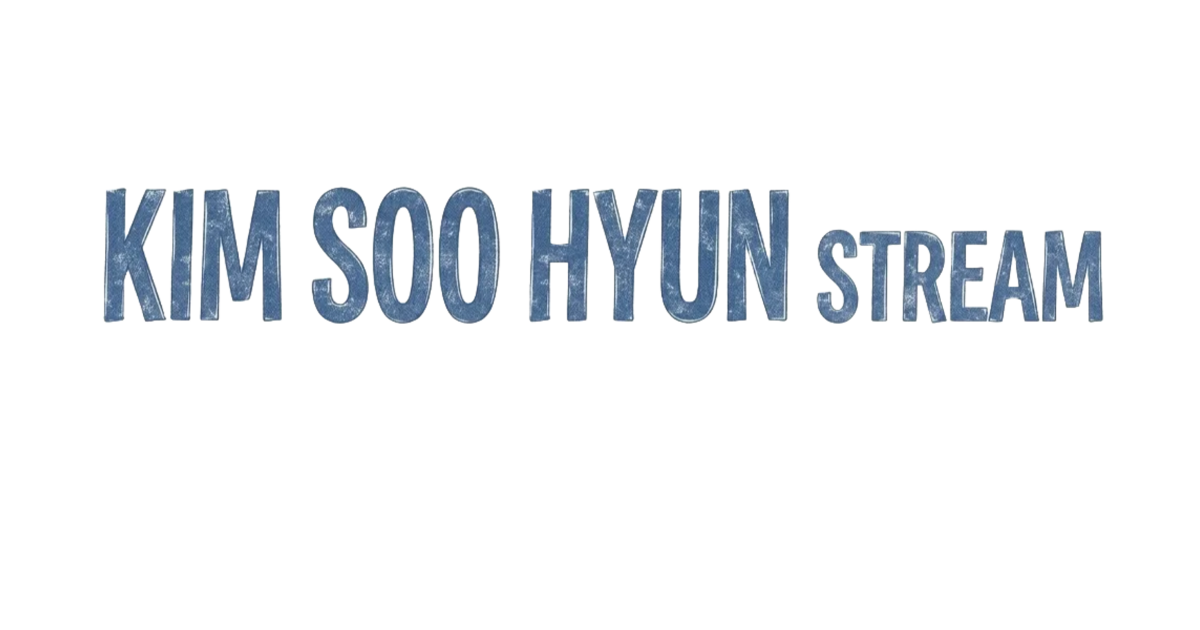
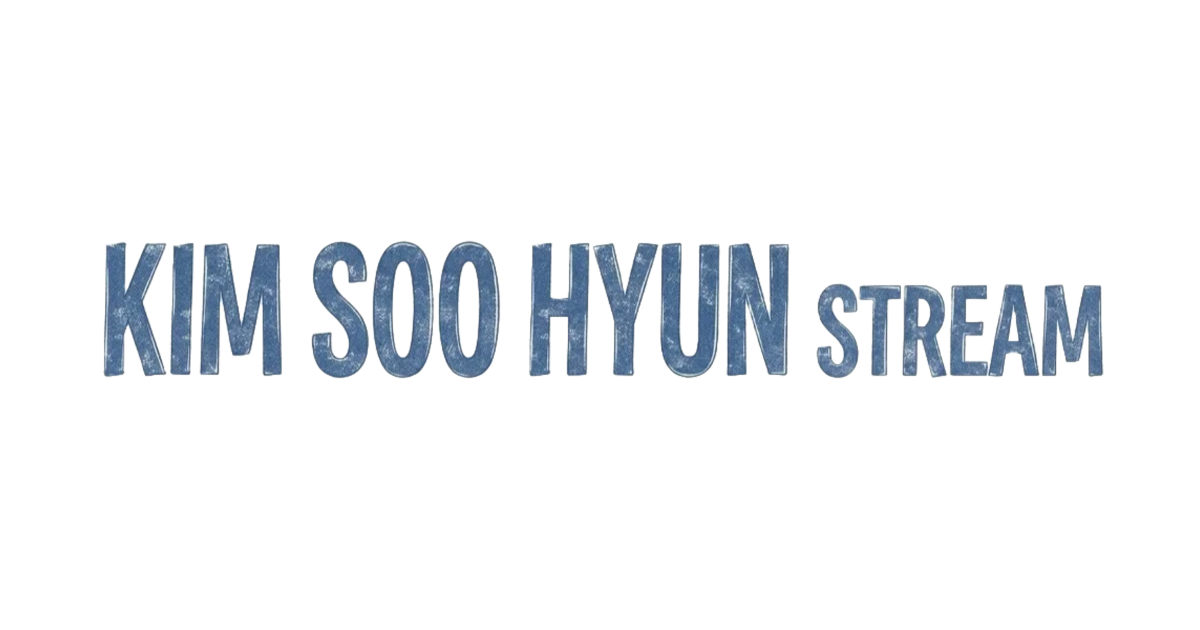
.

Changed region(s): [[0.0617, 0.3016, 0.925, 0.6032]]

diff --git a/youtube.html b/youtube.html
@@ -10,6 +10,23 @@
     <link rel="stylesheet" href="css/style.css">
     <link rel="stylesheet" href="css/easter-egg.css">
 
+
+    <!-- Open Graph -->
+    <meta property="og:title" content="KIM SOO HYUN STREAM">
+    <meta property="og:description" content="배우 김수현 콘텐츠 큐레이션 팬 페이지">
+    <meta property="og:type" content="website">
+    <meta property="og:url" content="https://kingsoohyun.github.io/stream/youtube.html">
+    <meta property="og:image" content="https://kingsoohyun.github.io/stream/assets/stream.png">
+    <meta property="og:image:width" content="1200">
+    <meta property="og:image:height" content="630">
+
+    <!-- X / Twitter Card -->
+    <meta name="twitter:card" content="summary_large_image">
+    <meta name="twitter:title" content="KIM SOO HYUN STREAM">
+    <meta name="twitter:description" content="배우 김수현 콘텐츠 큐레이션 팬 페이지">
+    <meta name="twitter:image" content="https://kingsoohyun.github.io/stream/assets/stream.png">
+
+
     <style>
 
         /* =========================================================

diff --git a/social.html b/social.html
@@ -11,6 +11,23 @@
     <link rel="stylesheet" href="css/style.css">
     <link rel="stylesheet" href="css/easter-egg.css">
 
+
+    <!-- Open Graph -->
+    <meta property="og:title" content="KIM SOO HYUN STREAM">
+    <meta property="og:description" content="배우 김수현 콘텐츠 큐레이션 팬 페이지">
+    <meta property="og:type" content="website">
+    <meta property="og:url" content="https://kingsoohyun.github.io/stream/social.html">
+    <meta property="og:image" content="https://kingsoohyun.github.io/stream/assets/stream.png">
+    <meta property="og:image:width" content="1200">
+    <meta property="og:image:height" content="630">
+
+    <!-- X / Twitter Card -->
+    <meta name="twitter:card" content="summary_large_image">
+    <meta name="twitter:title" content="KIM SOO HYUN STREAM">
+    <meta name="twitter:description" content="배우 김수현 콘텐츠 큐레이션 팬 페이지">
+    <meta name="twitter:image" content="https://kingsoohyun.github.io/stream/assets/stream.png">
+
+
     <style>
 
         /* =========================================================

diff --git a/tweets.html b/tweets.html
@@ -10,6 +10,23 @@
     <link rel="stylesheet" href="css/style.css">
     <link rel="stylesheet" href="css/easter-egg.css">
 
+
+    <!-- Open Graph -->
+    <meta property="og:title" content="KIM SOO HYUN STREAM">
+    <meta property="og:description" content="배우 김수현 콘텐츠 큐레이션 팬 페이지">
+    <meta property="og:type" content="website">
+    <meta property="og:url" content="https://kingsoohyun.github.io/stream/tweets.html">
+    <meta property="og:image" content="https://kingsoohyun.github.io/stream/assets/stream.png">
+    <meta property="og:image:width" content="1200">
+    <meta property="og:image:height" content="630">
+
+    <!-- X / Twitter Card -->
+    <meta name="twitter:card" content="summary_large_image">
+    <meta name="twitter:title" content="KIM SOO HYUN STREAM">
+    <meta name="twitter:description" content="배우 김수현 콘텐츠 큐레이션 팬 페이지">
+    <meta name="twitter:image" content="https://kingsoohyun.github.io/stream/assets/stream.png">
+
+
     <style>
 
         /* =========================================================

diff --git a/rights.html b/rights.html
@@ -11,6 +11,23 @@
     <link rel="stylesheet" href="css/style.css">
     <link rel="stylesheet" href="css/easter-egg.css">
 
+
+    <!-- Open Graph -->
+    <meta property="og:title" content="KIM SOO HYUN STREAM">
+    <meta property="og:description" content="배우 김수현 콘텐츠 큐레이션 팬 페이지">
+    <meta property="og:type" content="website">
+    <meta property="og:url" content="https://kingsoohyun.github.io/stream/rights.html">
+    <meta property="og:image" content="https://kingsoohyun.github.io/stream/assets/stream.png">
+    <meta property="og:image:width" content="1200">
+    <meta property="og:image:height" content="630">
+
+    <!-- X / Twitter Card -->
+    <meta name="twitter:card" content="summary_large_image">
+    <meta name="twitter:title" content="KIM SOO HYUN STREAM">
+    <meta name="twitter:description" content="배우 김수현 콘텐츠 큐레이션 팬 페이지">
+    <meta name="twitter:image" content="https://kingsoohyun.github.io/stream/assets/stream.png">
+
+
     <style>
         :root {
             --case-bg: #f7f7f5;

diff --git a/records.html b/records.html
@@ -10,6 +10,23 @@
     <link rel="stylesheet" href="css/style.css">
     <link rel="stylesheet" href="css/easter-egg.css">
 
+
+    <!-- Open Graph -->
+    <meta property="og:title" content="KIM SOO HYUN STREAM">
+    <meta property="og:description" content="배우 김수현 콘텐츠 큐레이션 팬 페이지">
+    <meta property="og:type" content="website">
+    <meta property="og:url" content="https://kingsoohyun.github.io/stream/records.html">
+    <meta property="og:image" content="https://kingsoohyun.github.io/stream/assets/stream.png">
+    <meta property="og:image:width" content="1200">
+    <meta property="og:image:height" content="630">
+
+    <!-- X / Twitter Card -->
+    <meta name="twitter:card" content="summary_large_image">
+    <meta name="twitter:title" content="KIM SOO HYUN STREAM">
+    <meta name="twitter:description" content="배우 김수현 콘텐츠 큐레이션 팬 페이지">
+    <meta name="twitter:image" content="https://kingsoohyun.github.io/stream/assets/stream.png">
+
+
     <style>
 
         .records-page {

diff --git a/events.html b/events.html
@@ -11,6 +11,23 @@
     <link rel="stylesheet" href="css/style.css">
     <link rel="stylesheet" href="css/easter-egg.css">
 
+
+    <!-- Open Graph -->
+    <meta property="og:title" content="KIM SOO HYUN STREAM">
+    <meta property="og:description" content="배우 김수현 콘텐츠 큐레이션 팬 페이지">
+    <meta property="og:type" content="website">
+    <meta property="og:url" content="https://kingsoohyun.github.io/stream/events.html">
+    <meta property="og:image" content="https://kingsoohyun.github.io/stream/assets/stream.png">
+    <meta property="og:image:width" content="1200">
+    <meta property="og:image:height" content="630">
+
+    <!-- X / Twitter Card -->
+    <meta name="twitter:card" content="summary_large_image">
+    <meta name="twitter:title" content="KIM SOO HYUN STREAM">
+    <meta name="twitter:description" content="배우 김수현 콘텐츠 큐레이션 팬 페이지">
+    <meta name="twitter:image" content="https://kingsoohyun.github.io/stream/assets/stream.png">
+
+
     <style>
 
         .events-page {
